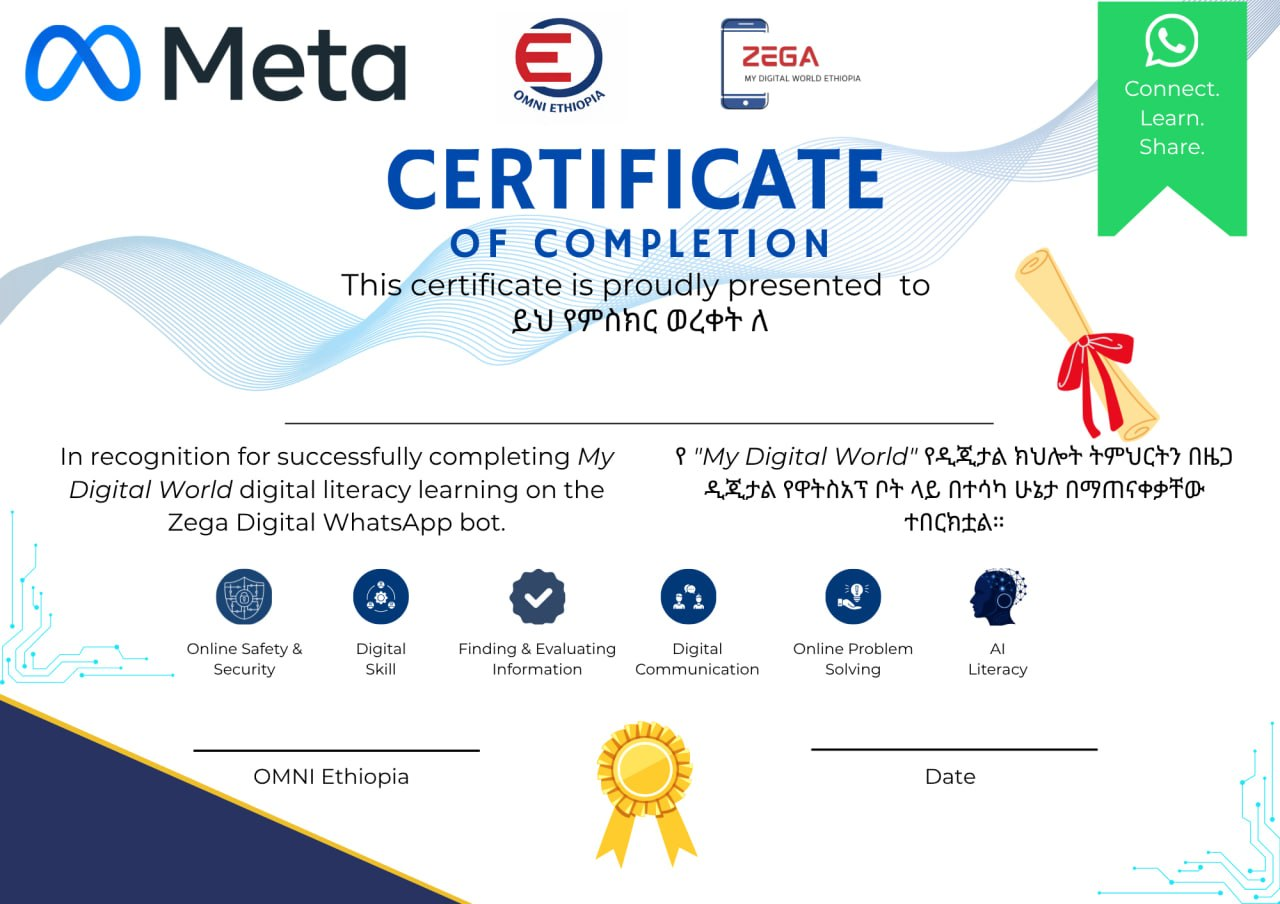
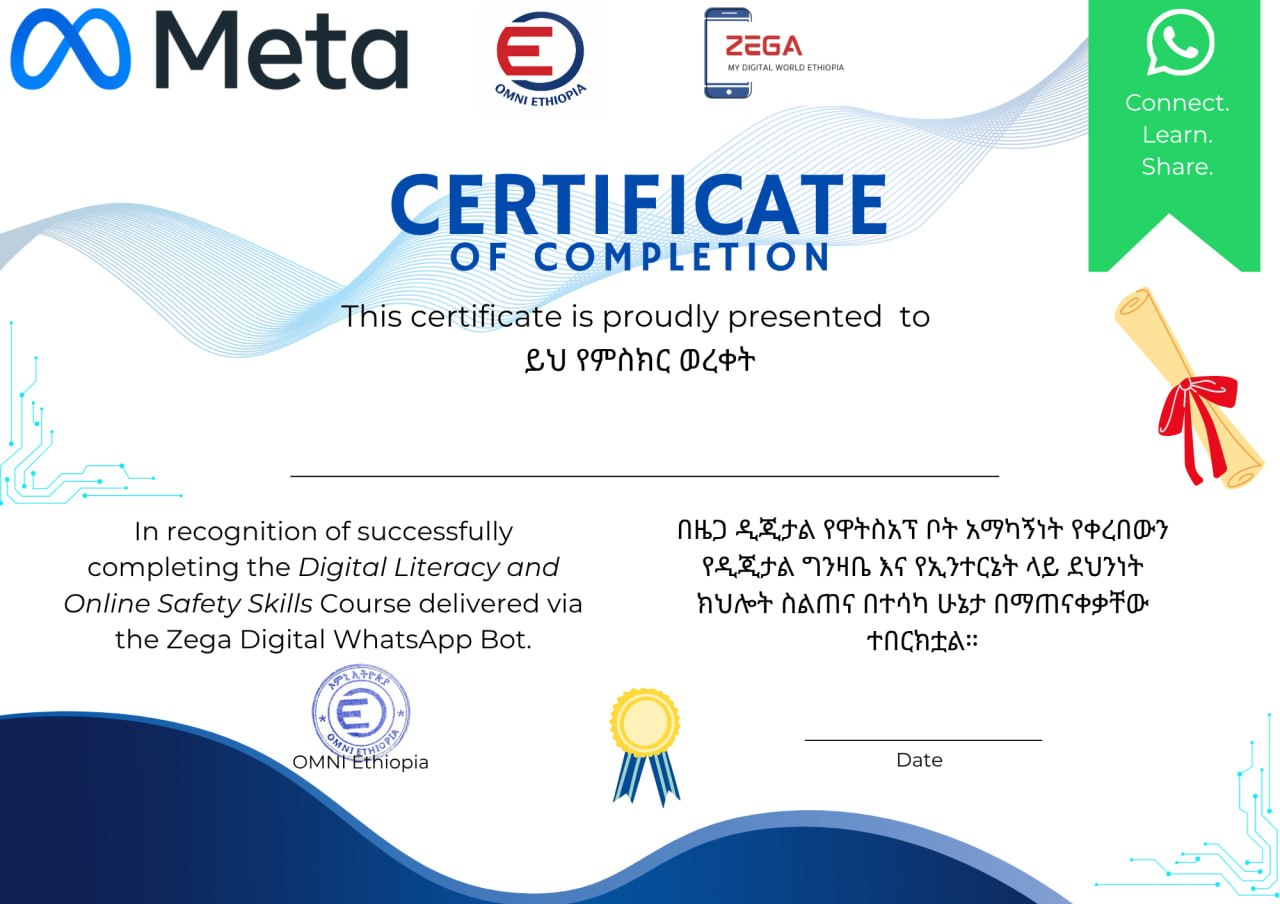
feat(certificate): stamped templates + a certificate/progress view in the menu
Campaign fix — makes the certificate visible, credible, and clearly attainable
to counter "it's a scam" claims.

1. Official stamp: the en/am/om templates now carry the OMNI Ethiopia seal
   (asset swap, same filenames). Nudged the am/om date baseline up (745→728) so
   it sits cleanly above the signature line on the new layout; name/date/ID all
   verified across all three languages.
2. Certificate in "Progress & certificate" (mission option 2):
   - Eligible learners (all lessons + quiz passed) see "your certificate is
     ready" and a tappable 🎓 Get certificate button (runs the existing issue
     flow).
   - Everyone else sees a progress bar + percentage + how many lessons remain
     ("2 of 19 done — 17 to go"), so the path to the certificate is obvious.
   - runtime supplies certQuizPassed; engine renders the bar and, when eligible,
     the button; menu label surfaces "certificate 🎓" for discoverability.

49 tests (2 new for the progress states); all green.

diff --git a/src/engine/engine.js b/src/engine/engine.js
@@ -70,6 +70,7 @@ function normaliseCtx(ctx) {
     earnedBadges: (ctx && ctx.earnedBadges) || [],
     baselineDone: Boolean(ctx && ctx.baselineDone),
     endlineDone: Boolean(ctx && ctx.endlineDone),
+    certQuizPassed: Boolean(ctx && ctx.certQuizPassed),
   };
 }
 
@@ -694,6 +695,12 @@ function renderHome(session, content) {
   return lines.join('\n');
 }
 
+// A 10-block text progress bar, e.g. 60% → ▓▓▓▓▓▓░░░░
+function progressBar(pct, width = 10) {
+  const filled = Math.max(0, Math.min(width, Math.round((pct / 100) * width)));
+  return '▓'.repeat(filled) + '░'.repeat(width - filled);
+}
+
 function renderProgress(session, content) {
   const u = content.strings.ui;
   const p = CTX.profile || {};
@@ -717,6 +724,27 @@ function renderProgress(session, content) {
         : u.progModNotStarted;
     lines.push(`• ${m.label} — ${status}`);
   }
+
+  // Certificate — the headline. Show readiness, or a clear progress bar + how
+  // many lessons remain, so learners see exactly what stands between them and
+  // their official certificate.
+  lines.push('', u.progCertTitle);
+  if (prog.complete && CTX.certQuizPassed) {
+    lines.push(u.progCertReady);
+  } else if (prog.complete) {
+    lines.push(u.progCertQuiz);
+  } else {
+    lines.push(
+      fill(u.progCertProgress, {
+        bar: progressBar(prog.pct),
+        pct: prog.pct,
+        done: prog.done,
+        total: prog.total,
+        remaining: prog.total - prog.done,
+      })
+    );
+  }
+
   lines.push('');
   if (CTX.earnedBadges.length) {
     lines.push(u.progBadgesTitle);
@@ -853,8 +881,14 @@ function deriveActions(session, content) {
       if (!session.track) return [act('🧒 Youth', '1'), act('🧑 Adult', '2'), act('🔎 Explore', '3')];
       // 3 tappable reply buttons (the rest of the options stay in the numbered text).
       return [act('▶ Start', '1'), act('📊 Progress', '2'), act('🏠 Menu', '3')];
-    case 'progress':
+    case 'progress': {
+      // Offer a tap-to-get-certificate button only when the learner is eligible.
+      const cprog = curriculum.trackProgress(content, session.track, CTX.completed);
+      if (cprog.complete && CTX.certQuizPassed) {
+        return [act('🎓 Get certificate', 'CERTIFICATE'), act('🏠 Menu', 'MENU')];
+      }
       return [act('🏠 Menu', 'MENU')];
+    }
     case 'menu': {
       const node = content.nodes[cur.id];
       // Clean, emoji-free labels keep option buttons within WhatsApp's 20-char cap.

diff --git a/src/content/am/index.js b/src/content/am/index.js
@@ -114,7 +114,7 @@ module.exports = {
       listButton: 'ይምረጡ',
       optStartLesson: '1  የዛሬውን ትምህርት ጀምር',
       optStartQuiz: '1  የትራክ ፈተና ውሰድ',
-      optProgress: '2  የኔ እድገት እና ባጆች',
+      optProgress: '2  እድገት እና ምስክር ወረቀት 🎓',
       optBrowse: '3  ዋና ማውጫ (ትራክ መቀየሪያ)',
       optQuiz: '4  ፈተና ውሰድ',
       optLanguage: '5  ቋንቋ ቀይር',
@@ -132,6 +132,10 @@ module.exports = {
       progModFinished: 'ተጠናቋል',
       progModNotStarted: 'አልተጀመረም',
       progModPartial: '{{done}} ከ {{total}}',
+      progCertTitle: '🎓 *የእርስዎ የምስክር ወረቀት*',
+      progCertReady: '✅ ሁሉንም አጠናቀዋል — ኦፊሴላዊ የምስክር ወረቀትዎ ዝግጁ ነው!\nለመቀበል *CERTIFICATE* ይላኩ።',
+      progCertQuiz: 'ሁሉም ትምህርቶች ተጠናቀዋል ✅ — የምስክር ወረቀትዎን ለመክፈት አሁን የትራክ ፈተናዎን ያልፉ።',
+      progCertProgress: '{{bar}}  {{pct}}%\n{{done}} ከ {{total}} ትምህርቶች ተጠናቀዋል — የምስክር ወረቀት ለማግኘት *{{remaining}} ቀርተዋል*። ቀጥሉ! 💪',
       progBadgesTitle: '*የተገኙ ባጆች*',
       progNoBadges: '*ባጆች፡* ገና የሉም — የመጀመሪያዎን ለማግኘት ትምህርት ያጠናቁ።',
       progFooter: 'ወደ መነሻ ለመመለስ 0 ወይም MENU ይላኩ።',

diff --git a/test/certificate.test.js b/test/certificate.test.js
@@ -114,6 +114,25 @@ test('a known name skips the prompt and issues immediately on the finishing turn
   assert.ok(images(issued).includes(`/cert/${cert.code}.png`));
 });
 
+test('progress screen shows a certificate progress bar + remaining count (not eligible)', async () => {
+  const uid = 'cert-prog-partial';
+  await onboardYouth(uid);
+  const r = await runtime.processMessage(uid, '2'); // mission → progress
+  assert.match(joined(r), /Your certificate/i);
+  assert.match(joined(r), /to go/i, 'shows how many lessons remain');
+  assert.ok(!r.actions.some((a) => /certificate/i.test(a.label)), 'no cert button when not eligible');
+});
+
+test('progress screen shows "ready" + a Get-certificate button when eligible', async () => {
+  const uid = 'cert-prog-ready';
+  await onboardYouth(uid);
+  completeAllYouthLessons(uid);
+  db.logEvent(uid, 'quizFinished', { track: 'youth', passed: true, score: 15, total: 15 });
+  const r = await runtime.processMessage(uid, '2'); // first progress view → eligible
+  assert.match(joined(r), /ready/i);
+  assert.ok(r.actions.some((a) => /certificate/i.test(a.label)), 'shows Get certificate when eligible');
+});
+
 test('certificate renders to a PNG and the verify page shows the details', async () => {
   const cert = { name: 'Haile Gebrselassie', track: 'adult', code: 'ZEGA-ABCD2345', issued_at: '2026-07-03 09:00:00' };
   const png = await certs.renderPng(cert, 'https://example.com');

diff --git a/src/content/om/index.js b/src/content/om/index.js
@@ -114,7 +114,7 @@ module.exports = {
       listButton: 'Filadhu',
       optStartLesson: '1  Barnoota har’aa jalqabi',
       optStartQuiz: '1  Battallee karaa fudhadhu',
-      optProgress: '2  Guddina koo fi badhaasota',
+      optProgress: '2  Guddina & waraqaa ragaa 🎓',
       optBrowse: '3  Menuu Ijoo (moojula jijjiiruuf)',
       optQuiz: '4  Battallee fudhadhu',
       optLanguage: '5  Afaan jijjiiri',
@@ -132,6 +132,10 @@ module.exports = {
       progModFinished: 'xumurame',
       progModNotStarted: 'hin jalqabamne',
       progModPartial: '{{done}} kan {{total}}',
+      progCertTitle: '🎓 *Waraqaa ragaa keessan*',
+      progCertReady: "✅ Hunda xumurtaniittu — waraqaan ragaa keessan qophaa'eera!\nFudhachuuf *CERTIFICATE* jedhaa ergaa.",
+      progCertQuiz: 'Barnoonni hundi xumurameera ✅ — waraqaa ragaa banachuuf amma qormaata karaa keessanii darbaa.',
+      progCertProgress: '{{bar}}  {{pct}}%\n{{done}} / {{total}} barnoota xumurtan — waraqaa ragaa argachuuf *{{remaining}} hafe*. Itti fufaa! 💪',
       progBadgesTitle: '*Badhaasota argatan*',
       progNoBadges: '*Badhaasota:* ammatti hin jiran — isa jalqabaa argachuuf barnoota tokko xumuri.',
       progFooter: 'Gara manaatti deebi’uuf 0 ykn MENU jedhi.',

diff --git a/src/content/en/system.js b/src/content/en/system.js
@@ -95,7 +95,7 @@ module.exports = {
       listButton: 'Select',
       optStartLesson: "1  Start today's lesson",
       optStartQuiz: '1  Take the track quiz',
-      optProgress: '2  My progress & badges',
+      optProgress: '2  Progress & certificate 🎓',
       optBrowse: '3  Main menu (switch track)',
       optQuiz: '4  Take a quiz',
       optLanguage: '5  Change language',
@@ -114,6 +114,10 @@ module.exports = {
       progModFinished: 'finished',
       progModNotStarted: 'not started',
       progModPartial: '{{done}} of {{total}}',
+      progCertTitle: '🎓 *Your certificate*',
+      progCertReady: "✅ You've completed everything — your official certificate is ready!\nReply *CERTIFICATE* to receive it now.",
+      progCertQuiz: 'All lessons done ✅ — now pass your track quiz to unlock your certificate.',
+      progCertProgress: '{{bar}}  {{pct}}%\n{{done}} of {{total}} lessons done — *{{remaining}} to go* to earn your certificate. Keep going! 💪',
       progBadgesTitle: '*Badges earned*',
       progNoBadges: '*Badges:* none yet — finish a lesson to earn your first.',
       progFooter: 'Reply 0 or MENU to go back home.',

diff --git a/src/runtime.js b/src/runtime.js
@@ -65,12 +65,17 @@ async function processMessageInner(userId, input, opts = {}) {
   // 2) Build read-only context for the engine.
   const content = getContent(session.lang);
   const priorAssessments = await db.getAssessments(userId);
+  // Whether the learner has passed their track quiz — the other certificate
+  // requirement besides finishing every lesson. Lets the progress screen show a
+  // truthful "certificate ready / N lessons to go" state.
+  const certQuizPassed = session.track ? (await db.getPassedQuizTracks(userId)).has(session.track) : false;
   const ctx = {
     profile,
     completed,
     earnedBadges: badgeDisplay(content, profile.track || 'youth', earnedSet),
     baselineDone: priorAssessments.some((a) => a.kind === 'baseline'),
     endlineDone: priorAssessments.some((a) => a.kind === 'endline'),
+    certQuizPassed,
   };
 
   // 3) Run the engine.

diff --git a/src/certificates.js b/src/certificates.js
@@ -54,8 +54,8 @@ const SANS = "'DejaVu Sans', 'Noto Sans Ethiopic', sans-serif";
 const TEMPLATE_DIR = path.join(__dirname, '..', 'public', 'img', 'cert');
 const TEMPLATES = {
   en: { file: 'cirt_English.jpeg', name: [652, 415], date: [880, 760] },
-  am: { file: 'cirt_Amharic.jpeg', name: [648, 415], date: [950, 745] },
-  om: { file: 'cirt_Oromiffa.jpeg', name: [648, 415], date: [950, 745] },
+  am: { file: 'cirt_Amharic.jpeg', name: [648, 415], date: [950, 728] },
+  om: { file: 'cirt_Oromiffa.jpeg', name: [648, 415], date: [950, 728] },
 };
 
 // A transparent overlay with the learner name, the date, and a small verify-ID
